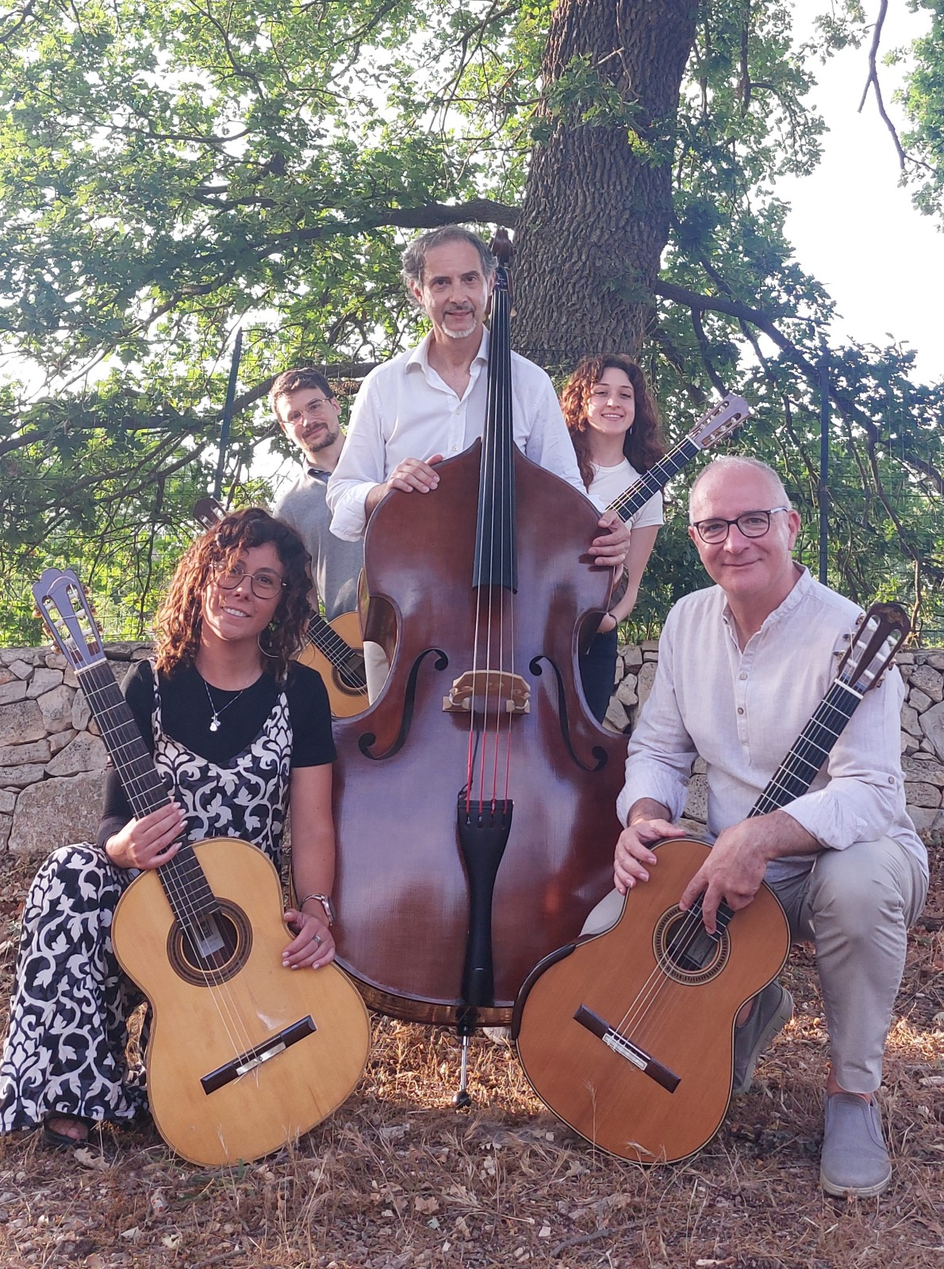
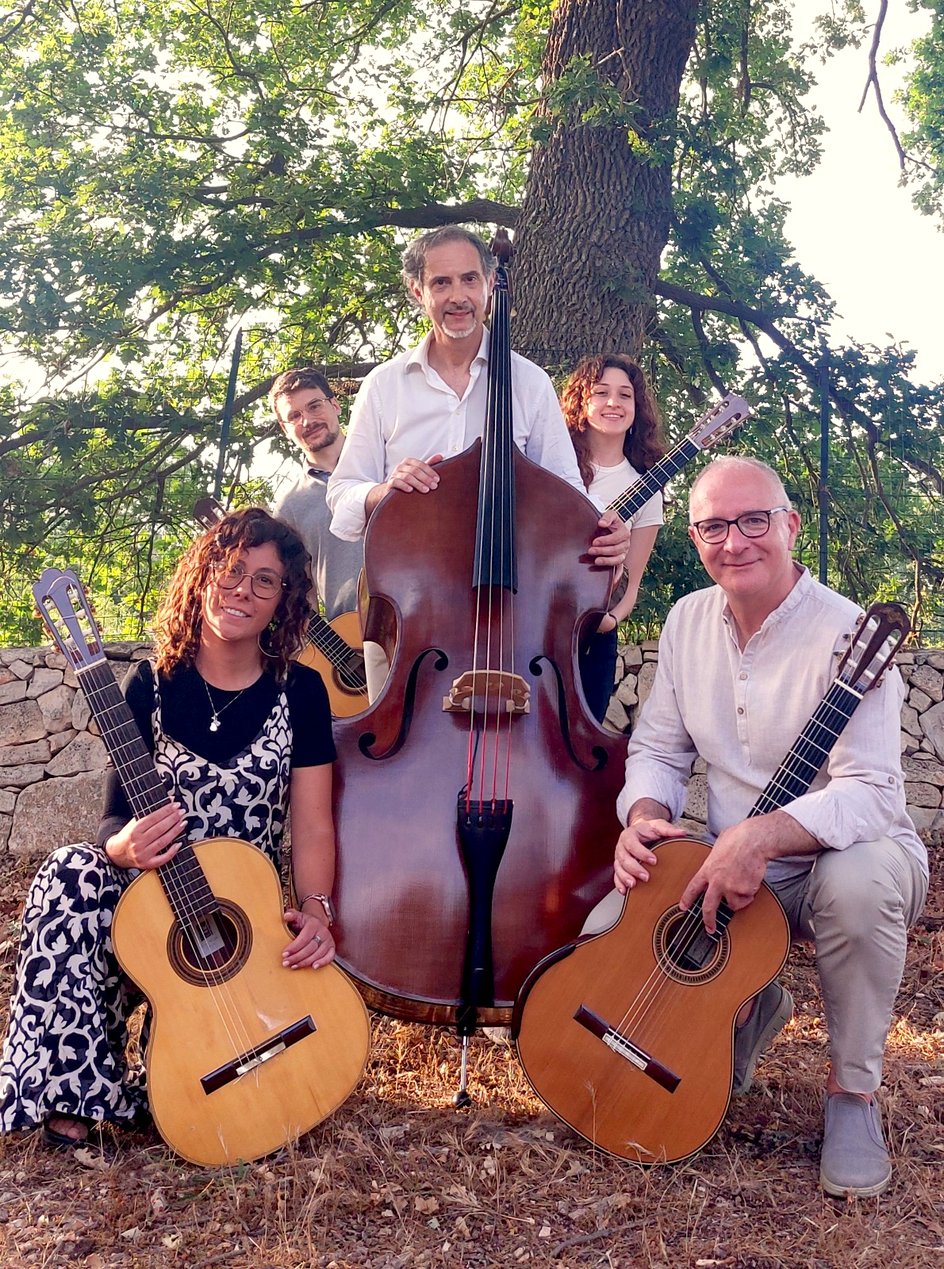
Improve hero section and add SDM photos to gallery

diff --git a/src/pages/Home/Home.module.css b/src/pages/Home/Home.module.css
@@ -7,12 +7,64 @@
   overflow: hidden;
 }
 
-.hero-image {
+.hero-image,
+.hero-image-echo {
   position: absolute;
   inset: 0;
   width: 100%;
   height: 100%;
   object-fit: cover;
+  /* On wide screens the image is cropped vertically: keep its bottom in view.
+     On narrow screens only the sides are cropped, so it stays horizontally centred. */
+  object-position: center bottom;
+}
+
+/* The second copy only exists to crossfade the pan back to its start. */
+.hero-image-echo {
+  display: none;
+}
+
+/* On tall, narrow screens the photo is scaled to the hero's height and is far
+   wider than the viewport, and its subject spans nearly all of that width. Two
+   copies take turns panning across it once each, half a cycle apart, so one
+   fades in at the start while the other fades out at the end. The pan holds
+   still during the fades. */
+@media (max-aspect-ratio: 5/4) and (prefers-reduced-motion: no-preference) {
+  .hero-image,
+  .hero-image-echo {
+    display: block;
+    animation: hero-image-pan 30s linear infinite;
+  }
+
+  .hero-image-echo {
+    animation-delay: -15s;
+  }
+}
+
+@keyframes hero-image-pan {
+  0% {
+    object-position: 15% bottom;
+    opacity: 0;
+  }
+
+  5% {
+    object-position: 15% bottom;
+    opacity: 1;
+    /* Eases the pan (5%-50%) only; the fades stay linear. */
+    animation-timing-function: ease-in-out;
+  }
+
+  50% {
+    object-position: 90% bottom;
+    opacity: 1;
+    animation-timing-function: linear;
+  }
+
+  55%,
+  100% {
+    object-position: 90% bottom;
+    opacity: 0;
+  }
 }
 
 .hero-scrim-center {

diff --git a/src/pages/Home/Home.tsx b/src/pages/Home/Home.tsx
@@ -12,7 +12,7 @@ import FramedImage from "../../components/display/FramedImage";
 import SectionHeading from "../../components/display/SectionHeading";
 import AlbumCover from "../../components/media/AlbumCover";
 import ConcertRow from "../../components/media/ConcertRow";
-import heroBackground from "../../assets/images/background.jpeg";
+import heroBackground from "../../assets/images/hero.jpg";
 import ensemble from "../../assets/images/ensemble.jpg";
 import heroLogo from "../../assets/images/logo-pgq-white.svg";
 
@@ -44,6 +44,7 @@ export default function Home() {
     <>
       <section className={styles.hero}>
         <img src={heroBackground} alt="Il PGQ in concerto" className={styles["hero-image"]} />
+        <img src={heroBackground} alt="" aria-hidden="true" className={styles["hero-image-echo"]} />
         <div className={styles["hero-scrim-center"]} />
         <div className={styles["hero-scrim-bottom"]} />
         <div className={styles["hero-brand"]}>

diff --git a/src/pages/Concerti/Concerti.tsx b/src/pages/Concerti/Concerti.tsx
@@ -13,7 +13,7 @@ export default function Concerti() {
         <SectionHeading eyebrow="In concerto" title="Le date del PGQ" />
         <div className={styles["concert-list"]}>
           {concerts.map((concert) => (
-            <Card key={`${concert.date}-${concert.month}-${concert.title}`} className={styles["concert-card"]}>
+            <Card key={`${concert.date}-${concert.month}-${concert.title}`}>
               <ConcertRow {...concert} />
             </Card>
           ))}

diff --git a/src/pages/Home/Home.module.css.d.ts b/src/pages/Home/Home.module.css.d.ts
@@ -7,6 +7,8 @@ declare const styles: {
   readonly "hero": string;
   readonly "hero-brand": string;
   readonly "hero-image": string;
+  readonly "hero-image-echo": string;
+  readonly "hero-image-pan": string;
   readonly "hero-logo": string;
   readonly "hero-scrim-bottom": string;
   readonly "hero-scrim-center": string;
